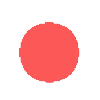
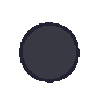
Adição de ação no botão de temas

Changed region(s): [[0.18, 0.21, 0.81, 0.84]]

diff --git a/telas/Inicio.py b/telas/Inicio.py
@@ -7,11 +7,9 @@ from os import path
 import util.funcoes as funcoes
 
 
-
-
-
 class Inicio():
     def __init__(self, tela, design, idioma, interface_idioma, icon):
+        self.lista_botoes = []
 
         self.tema_claro = PhotoImage(file='imagens/tema_claro.png')
         self.tema_escuro = PhotoImage(file='imagens/tema_escuro.png')
@@ -21,16 +19,10 @@ class Inicio():
         self.tema_escuro = self.tema_escuro.subsample(4, 4)
         self.tema_simples = self.tema_simples.subsample(4, 4)
 
-
-
-
-
         self.tela = tela
-
 
         LARGURA = int(tela.winfo_screenwidth() / 6)
         t_heigth = tela.winfo_screenheight()
-
 
         design = {'bg':'#222232'}
 
@@ -81,6 +73,8 @@ class Inicio():
 
         self.bt_tema_3 = Button(self.frame_cor_tema, image=self.tema_claro, bd=0, activebackground="#222232", bg='#222232', foreground="white")
         self.bt_tema_3.grid(row=2, column=3, sticky=NSEW)
+
+        self.lista_botoes = [[self.bt_tema_1, 'simples.json'], [self.bt_tema_2, 'escuro.json'], [self.bt_tema_3, 'claro.json']]
 
         self.lb_espaco = Label(self.frame_cor_tema,  bg="#222232",text=" ", font=("", 20)).grid(row=2, column=4, sticky=NSEW)
 
@@ -133,7 +127,6 @@ class Inicio():
             ]
         })
 
-
     def carregar_opcoes(self, nome, pai, dados):
 
         lb_aprender = Label(pai, text=nome, bg="#222232", fg="white", font=("", 14))
@@ -148,12 +141,9 @@ class Inicio():
 
         for k, v in dados["itens"]:
             bt_item = Button(fr_aprender, text=v,bd=0, activebackground="#222232", bg="#222232", justify="left", fg="#3399ff", activeforeground="#dd33ff")
+            #bt_item['command'] = lambda link = file: self.abrir_um_script(k)
             bt_item.grid(row=pos, column=1, sticky='w')
             pos = pos + 1
 
 
 
-
-
-
-        

diff --git a/telas/ide.py b/telas/ide.py
@@ -435,15 +435,23 @@ class Interface:
 
         #self.buscar_atualização()
         self.splash.splash_fim()
-        self.master.withdraw()
+        self.master.withdraw() 
 
         self.tutorial = Tutorial(self.fr_princ,  self.design, self.idioma, self.interface_idioma, self.icon)
         self.atualizar_design_interface()
 
+
+
         self.tela_inicio = Inicio(self.fr_princ, self.design, self.idioma, self.interface_idioma, self.icon)
         self.trocar_interface(troca='codigo')
+        self.lista_botoes_recentes = self.tela_inicio.lista_botoes
+        self.abrir_aba_inicio()
+        for widget, arquivo in self.lista_botoes_recentes:
+            print(arquivo)
+            widget['command'] = lambda link = arquivo: self.atualizar_temas_e_sintaxe(link)
 
-        #self.abrir_aba_inicio()
+
+
 
         try:
             master.state('zoomed')
@@ -461,8 +469,14 @@ class Interface:
 
         self.avisos()
 
-
         #self.manipular_arquivos(None, "abrirArquivo", 'natal.safira')
+
+
+    def atualizar_temas_e_sintaxe(self, arquivo):
+        self.atualizar_tema_sintaxe_da_interface('tema', arquivo)
+        self.atualizar_tema_sintaxe_da_interface('sintaxe', arquivo)
+
+
     def trocar_interface(self, troca):
         if troca == 'tutorial':
             self.tx_editor.grid_remove()
